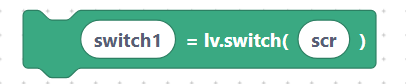
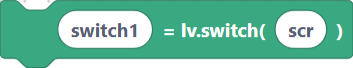
[Done] Display (layout.md) & all images formatting.

diff --git a/display/lvgl/layout.md b/display/lvgl/layout.md
@@ -13,6 +13,8 @@ Moves an object to an absolute (x, y) inside its parent.
 label1.set_pos(10, 20)
 ```
 
+> ![](img/lay1.png){width=inherit}
+
 ## `lvglSetSize` — set width and height
 
 **Inputs:** object name, width, height.
@@ -20,6 +22,8 @@ label1.set_pos(10, 20)
 ```python
 btn1.set_size(120, 50)
 ```
+
+> ![](img/lay2.png){width=inherit}
 
 ## `lvglSetWidth` — set width only
 
@@ -29,6 +33,8 @@ btn1.set_size(120, 50)
 btn1.set_width(120)
 ```
 
+> ![](img/lay3.png){width=inherit}
+
 ## `lvglSetHeight` — set height only
 
 **Inputs:** object name, height.
@@ -36,6 +42,8 @@ btn1.set_width(120)
 ```python
 btn1.set_height(50)
 ```
+
+> ![](img/lay4.png){width=inherit}
 
 ## `lvglSetX` — set x only
 
@@ -45,6 +53,8 @@ btn1.set_height(50)
 btn1.set_x(10)
 ```
 
+> ![](img/lay5.png){width=inherit}
+
 ## `lvglSetY` — set y only
 
 **Inputs:** object name, y.
@@ -52,6 +62,8 @@ btn1.set_x(10)
 ```python
 btn1.set_y(20)
 ```
+
+> ![](img/lay6.png){width=inherit}
 
 ## `lvglAlign` — align within the parent
 
@@ -63,6 +75,8 @@ This is the easiest way to centre things.
 ```python
 label1.align(lv.ALIGN.CENTER, 0, 0)
 ```
+
+> ![](img/lay7.png){width=inherit}
 
 ## Example
 
@@ -76,6 +90,8 @@ btn1.align(lv.ALIGN.CENTER, 0, 0)
 while True:
     lv.task_handler()
 ```
+
+> ![](img/lay8.png){width=inherit}
 
 ## Next
 
